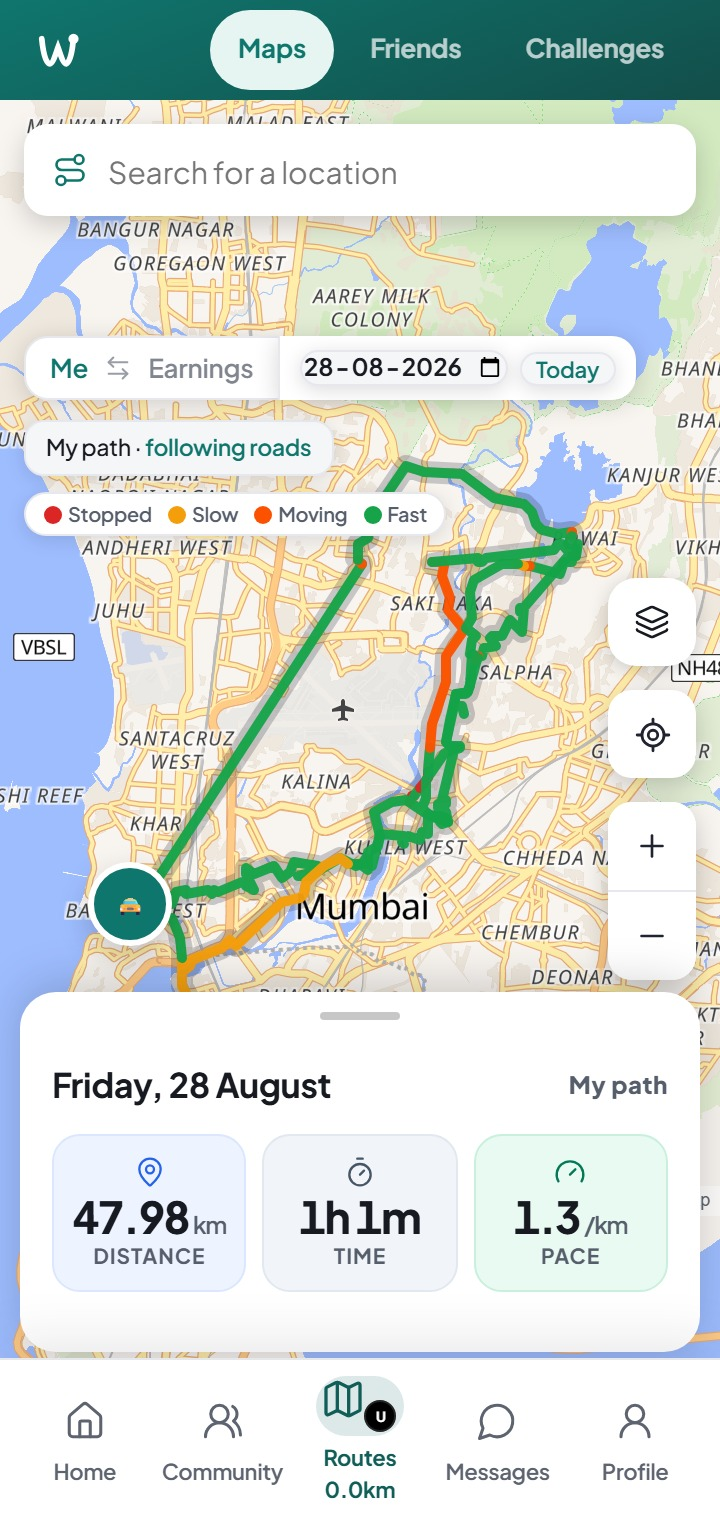
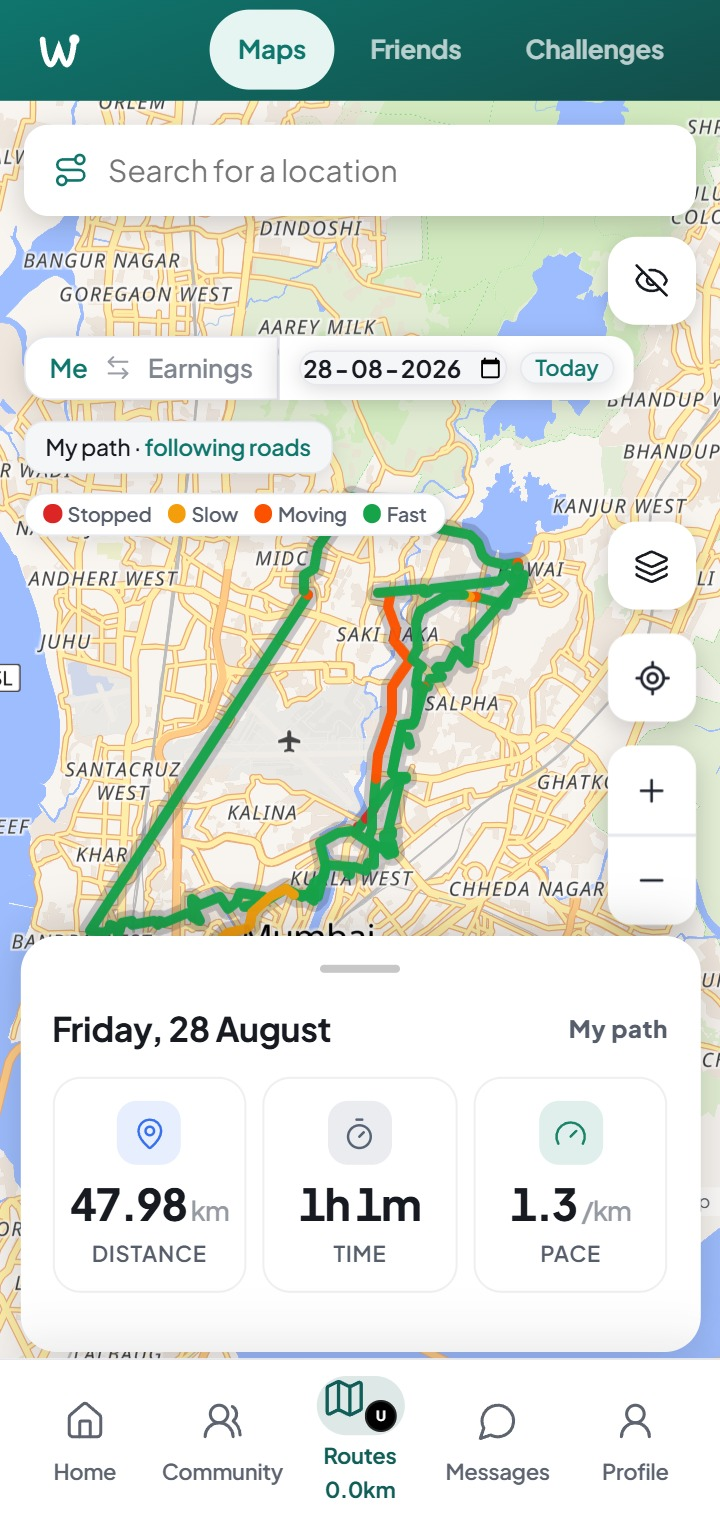
70 currencies, 92 countries, and screenshots of the current app
Both numbers were counted against the app rather than carried over: 70
entries in CURRENCIES in src/utils/format.ts and 92 in COUNTRY_CURRENCY
in src/i18n/region.ts, after the nine currencies added for Bolivia,
Guatemala, Honduras, Nicaragua, Paraguay, Venezuela, Algeria, Belarus and
Moldova. The site said 61 and 83, which were true before that.

Five screenshots replaced with the shipping app: home, messages, profile,
community and map. friends.jpg is unchanged because that screen is not.

diff --git a/product-sheet.html b/product-sheet.html
@@ -114,7 +114,7 @@ h1 { font-size: 19pt; font-weight: 800; letter-spacing: -0.025em; line-height: 1
 
   <h1>Two products.<br>One of them proved the other.</h1>
   <p class="sub">We build software for people who work — and the tooling to prove it holds up before
-  anyone depends on it. One product serves gig drivers across 83 countries. The other is the
+  anyone depends on it. One product serves gig drivers across 92 countries. The other is the
   testing platform we had to build to test the first, and it found five bugs in it that a full
   manual pass had missed.</p>
 
@@ -131,8 +131,8 @@ h1 { font-size: 19pt; font-weight: 800; letter-spacing: -0.025em; line-height: 1
         <li><b>Privacy enforced by the database.</b> Phone numbers are unreadable to other users — not hidden in the UI — and a migration assertion fails if that stops being true.</li>
       </ul>
       <div class="specs">
-        <b>43</b> languages, right-to-left included · <b>61</b> currencies ·
-        <b>83</b> countries · <b>33</b> gig platforms<br>
+        <b>43</b> languages, right-to-left included · <b>70</b> currencies ·
+        <b>92</b> countries · <b>33</b> gig platforms<br>
         React · TypeScript · Capacitor · PostgreSQL — <b>24</b> tables under <b>54</b>
         row-level-security policies · <b>8.2 MB</b> download · Android 7.0+
       </div>

diff --git a/index.html b/index.html
@@ -407,8 +407,8 @@ footer{border-top:1px solid var(--edge);padding:44px 0 56px;margin-top:40px}
 
       <div class="stats">
         <div class="stat rv"><b data-count="43">43</b><span>languages, right-to-left included</span></div>
-        <div class="stat rv"><b data-count="61">61</b><span>currencies, set from where you are</span></div>
-        <div class="stat rv"><b data-count="83">83</b><span>countries covered</span></div>
+        <div class="stat rv"><b data-count="70">70</b><span>currencies, set from where you are</span></div>
+        <div class="stat rv"><b data-count="92">92</b><span>countries covered</span></div>
         <div class="stat rv"><b data-count="33">33</b><span>gig platforms recognised</span></div>
       </div>
     </div>
